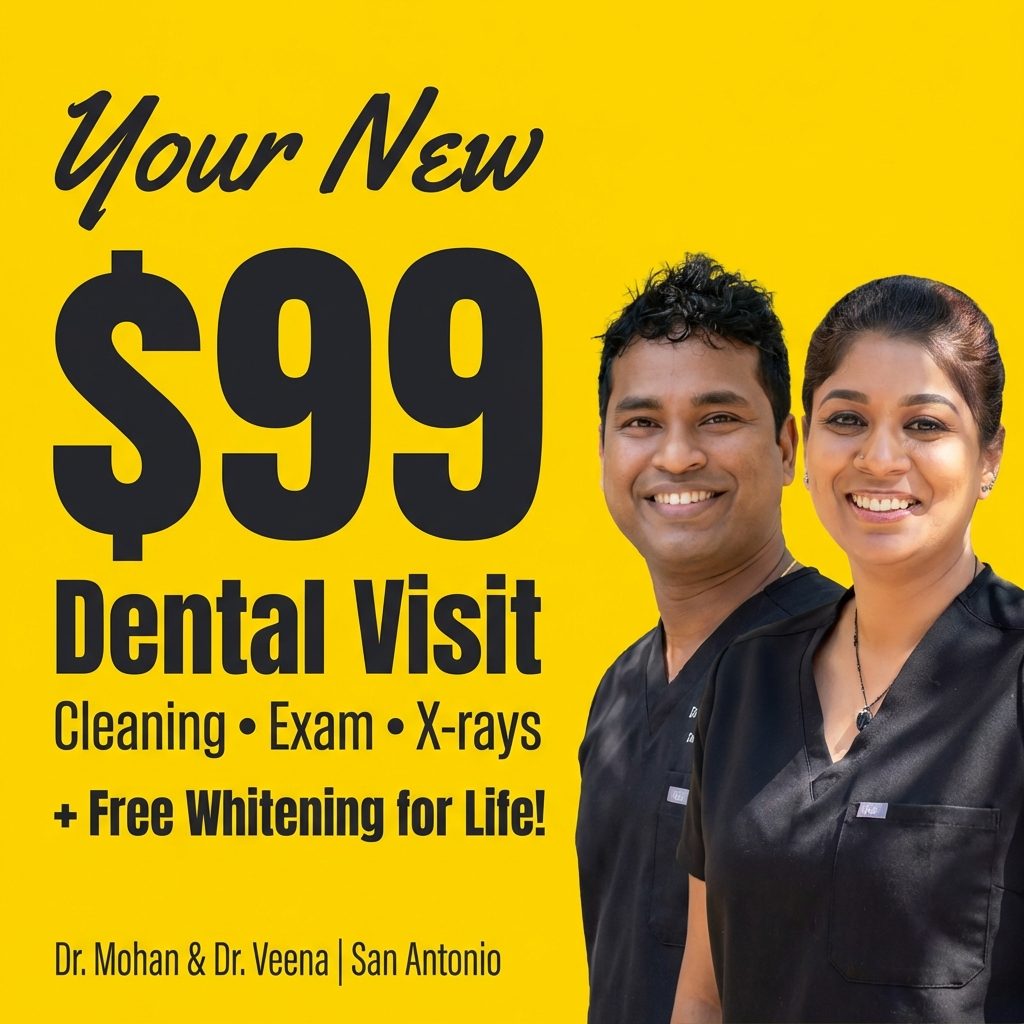
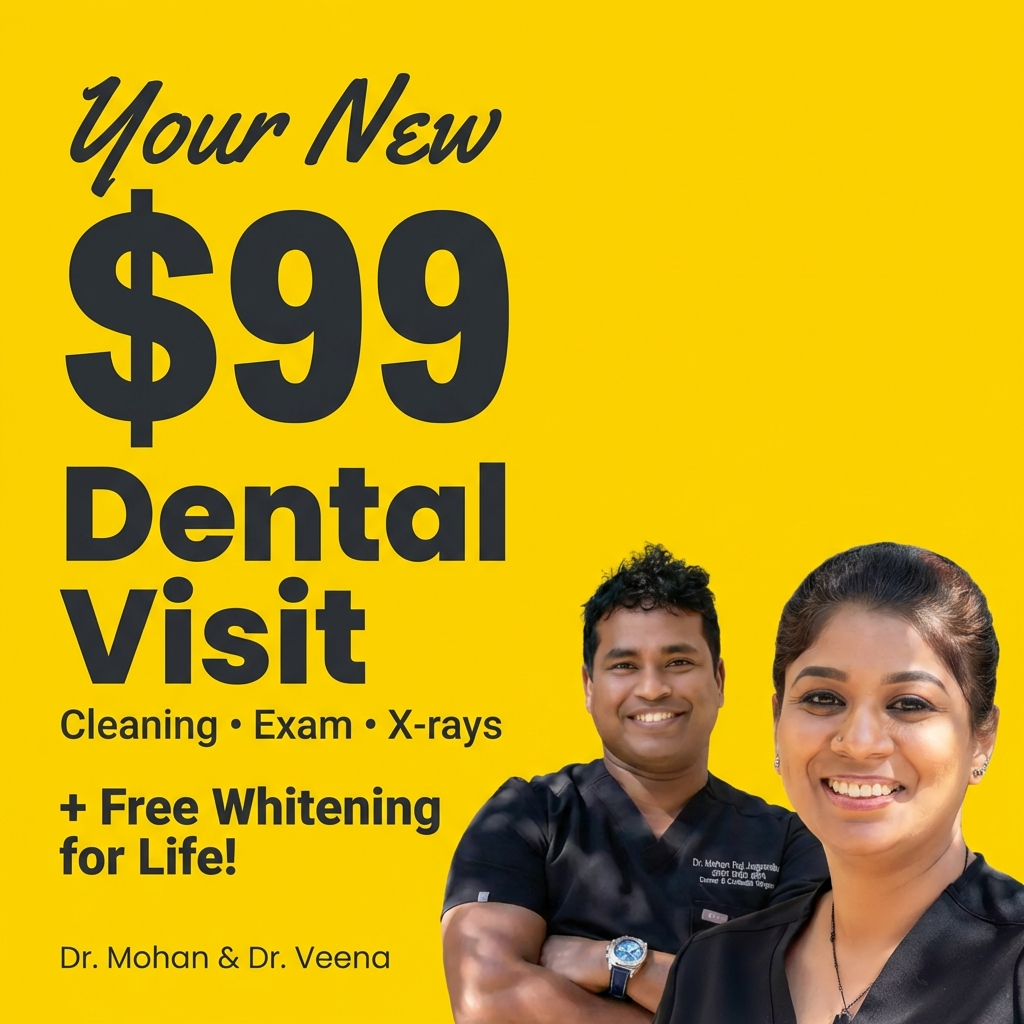
Regenerate ads without city name

diff --git a/elite-dental/index.html b/elite-dental/index.html
@@ -353,7 +353,7 @@
                 <div class="ad-info">
                     <span class="ad-style style-superhero">Superhero</span>
                     <h4 class="ad-title">Blue-Red Starburst</h4>
-                    <p class="ad-desc">Dr. Mohan, comic book starburst, bold yellow headline</p>
+                    <p class="ad-desc">Dr. Mohan, blue-red starburst, bold yellow headline</p>
                 </div>
             </div>
 
